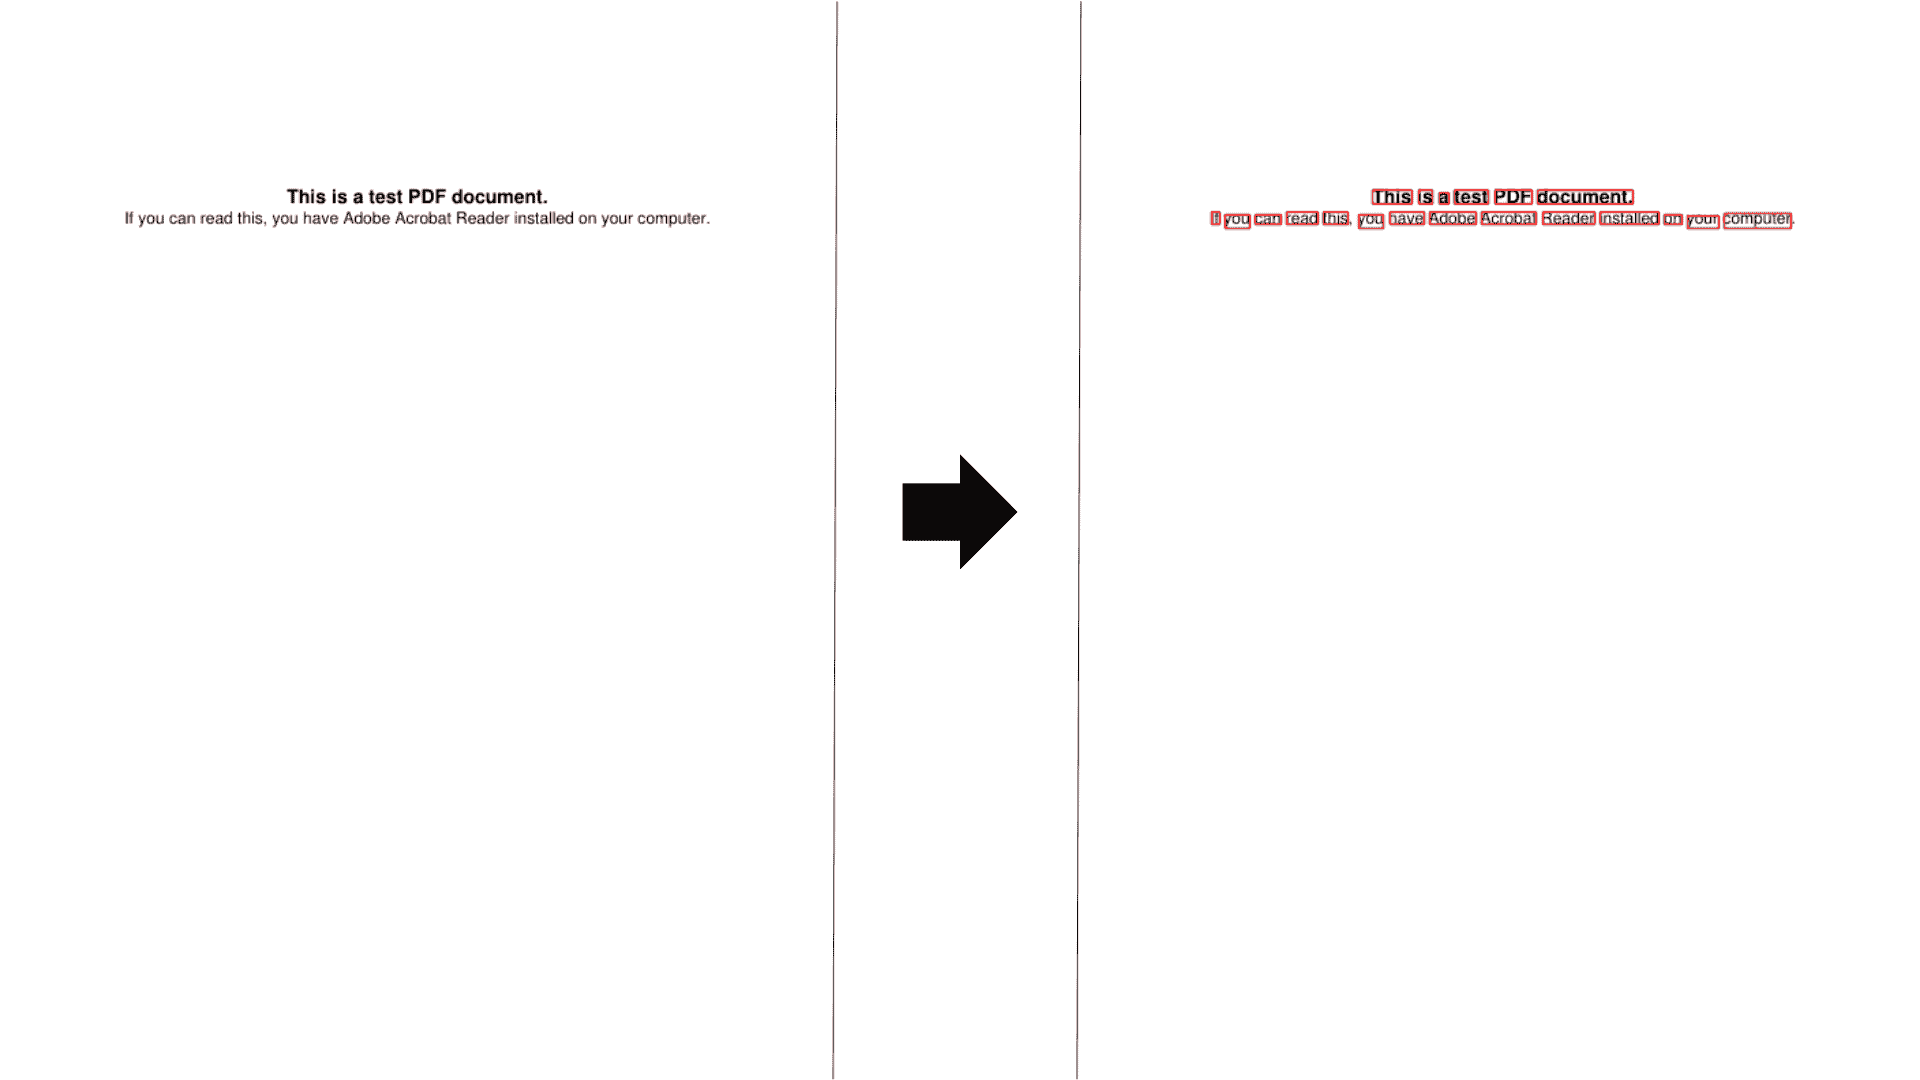
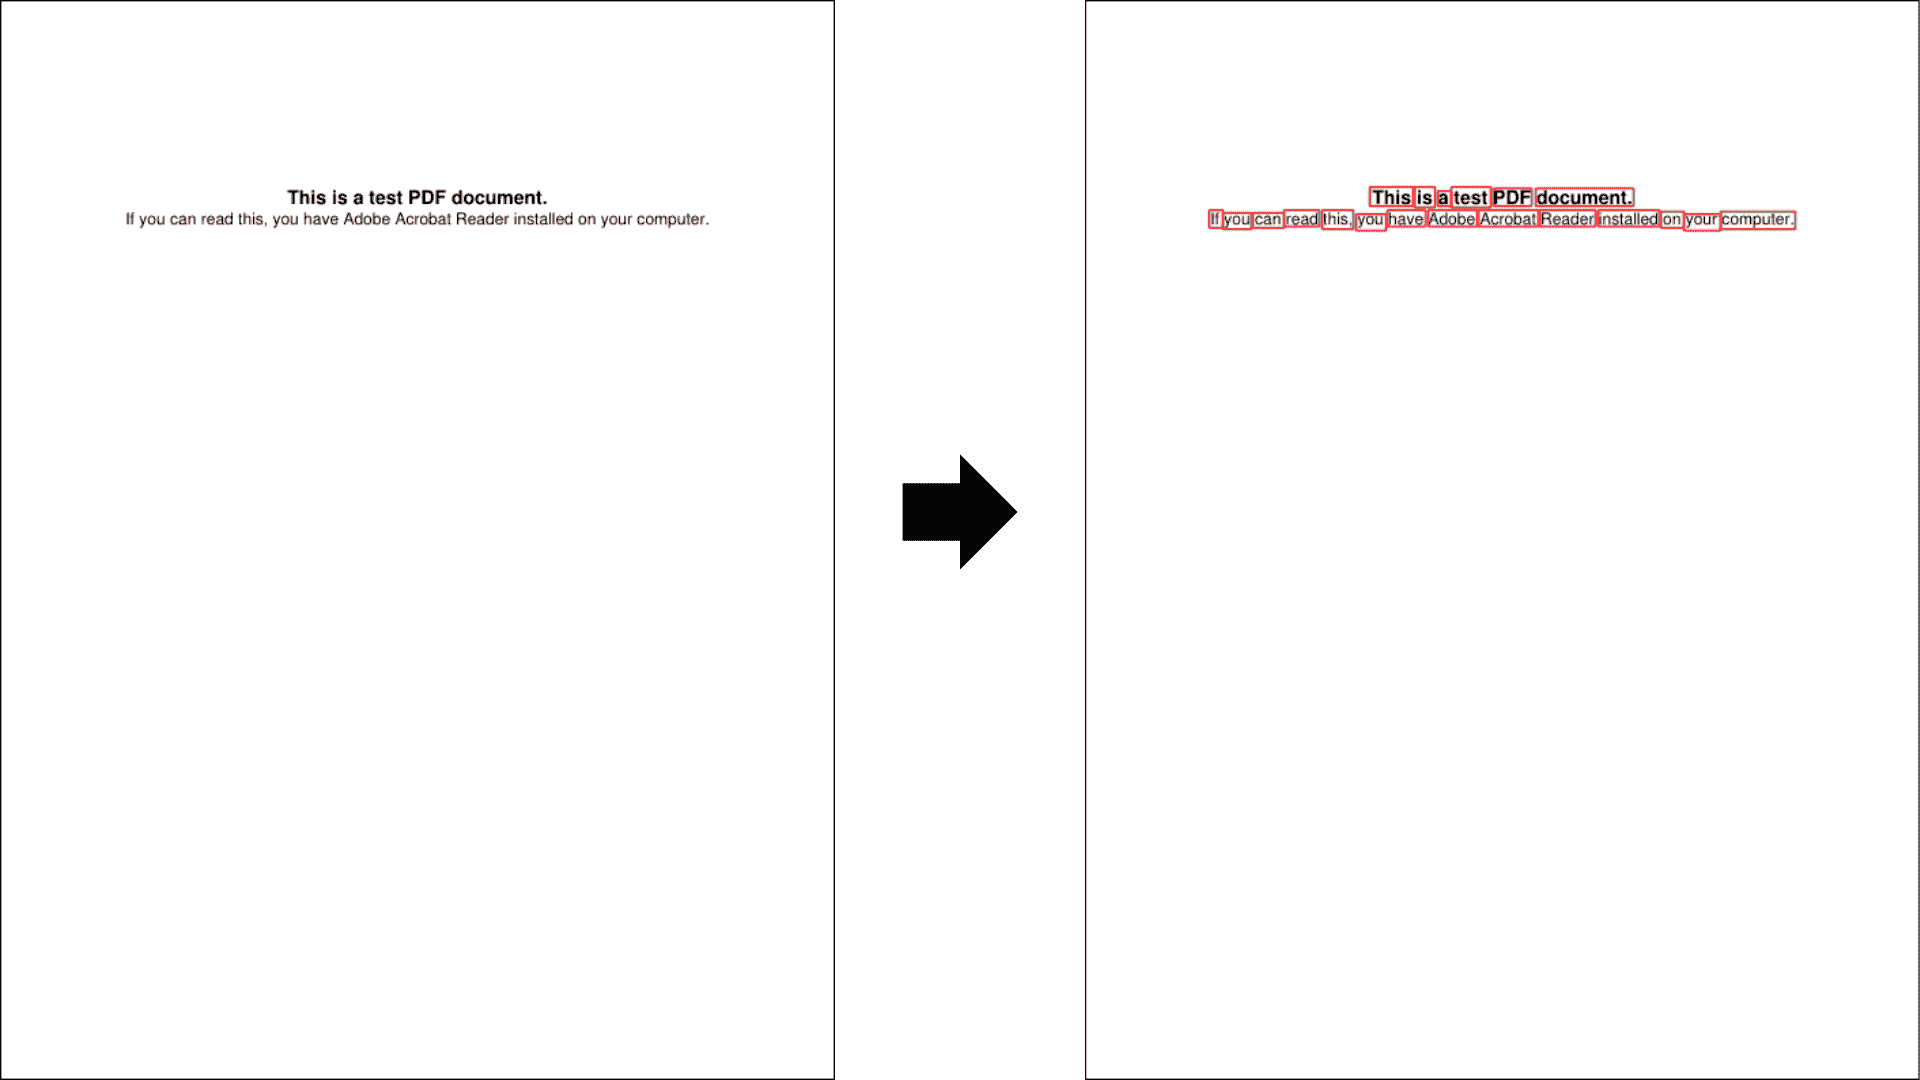
docs: add example group words ocr + find closest words

diff --git a/otary/vision/ocr/ocr_multi_output.py b/otary/vision/ocr/ocr_multi_output.py
@@ -138,16 +138,15 @@ class OcrMultiOutput:
     def from_doctr(
         cls,
         doctr_output: dict,
-        assume_straight_pages: bool = False,
+        force_aabb: bool = False,
         is_bbox_cast_int_enabled: bool = True,
     ) -> OcrMultiOutput:
         """Transform a single page DocTR output into a OcrMultiOutput object.
 
         Args:
             doctr_output (dict): the output of the DocTR OCR pipeline.
-            assume_straight_pages (bool): whether to assume that the pages are straight
-                or not. This has an impact on the geometry bounding boxes coordinates
-                output representation.
+            force_aabb (bool): whether to force the use of axis-aligned bounding boxes
+                (AABB). Defaults to False.
             is_bbox_cast_int_enabled (bool, optional): whether to cast all bounding
                 boxes coordinates into integers.
 
@@ -168,14 +167,14 @@ class OcrMultiOutput:
                 for word in line["words"]:
                     try:
                         bbox_arr = np.array(word["geometry"], dtype=float) * arr_dim
-                        if not assume_straight_pages:
+                        if not force_aabb:
                             bbox = geo.Rectangle(
                                 points=bbox_arr,
                                 regularity_rtol=0.1,
                                 is_cast_int=is_bbox_cast_int_enabled,
                             )
                         else:
-                            bbox = geo.Rectangle.from_topleft_bottomright(
+                            bbox = geo.AxisAlignedRectangle.from_topleft_bottomright(
                                 topleft=bbox_arr[0],
                                 bottomright=bbox_arr[1],
                                 is_cast_int=is_bbox_cast_int_enabled,
@@ -199,7 +198,7 @@ class OcrMultiOutput:
         image_dim: tuple[int, int],
         page_nb_to_analyze: int = 0,
         level: str = "word",
-        assume_straight_pages: bool = False,
+        force_aabb: bool = False,
     ) -> OcrMultiOutput:
         """Instantiate OcrMultiOutput object from OCR Azure Intelligence.
 
@@ -209,8 +208,8 @@ class OcrMultiOutput:
             page_nb_to_analyze (int, optional): page number to analyze. Defaults to 0.
             level (str, optional): level of granularity for OCR results.
                 Defaults to "word".
-            assume_straight_pages (bool, optional): whether to assume straight pages.
-                Defaults to False.
+            force_aabb (bool, optional): whether to force the use of axis-aligned
+                bounding boxes (AABB). Defaults to False.
 
         Returns:
             OcrMultiOutput: OcrMultiOutput object
@@ -243,7 +242,7 @@ class OcrMultiOutput:
                 )
                 bbox = geo.Polygon(polygon_in_pixels)
 
-                if assume_straight_pages:
+                if force_aabb:
                     bbox = bbox.aabb()
                 else:
                     bbox = bbox.obb()
@@ -271,7 +270,7 @@ class OcrMultiOutput:
                 )
                 bbox = geo.Polygon(polygon_in_pixels)
 
-                if assume_straight_pages:
+                if force_aabb:
                     bbox = bbox.aabb()
                 else:
                     bbox = bbox.obb()
@@ -301,7 +300,7 @@ class OcrMultiOutput:
                 )
                 bbox = geo.Polygon(polygon_in_pixels)
 
-                if assume_straight_pages:
+                if force_aabb:
                     bbox = bbox.aabb()
                 else:
                     bbox = bbox.obb()

diff --git a/tests/unit/vision/ocr/test_ocr_multi_output.py b/tests/unit/vision/ocr/test_ocr_multi_output.py
@@ -184,9 +184,7 @@ class TestOCRMOFromDoctr:
     def test_from_doctr_with_valid_input_assume_straight_page_true(
         self, doctr_output_straight_page: dict
     ):
-        result = OcrMultiOutput.from_doctr(
-            doctr_output_straight_page, assume_straight_pages=True
-        )
+        result = OcrMultiOutput.from_doctr(doctr_output_straight_page, force_aabb=True)
 
         # Assertions
         assert len(result.ocrsos) == 2
@@ -209,13 +207,13 @@ class TestOCRMOFromDoctr:
         doctr_output = {"pages": [{"dimensions": [1000, 2000], "blocks": []}]}
 
         # Call the method
-        result = OcrMultiOutput.from_doctr(doctr_output, assume_straight_pages=True)
+        result = OcrMultiOutput.from_doctr(doctr_output, force_aabb=True)
 
         # Assertions
         assert len(result.ocrsos) == 0
 
     def test_from_doctr_normal(self, doctr_output: dict):
-        result = OcrMultiOutput.from_doctr(doctr_output, assume_straight_pages=False)
+        result = OcrMultiOutput.from_doctr(doctr_output, force_aabb=False)
 
         # Assertions
         assert len(result.ocrsos) == 2
@@ -245,7 +243,7 @@ class TestOCRMOFromAzure:
             image_dim=image_dim,
             page_nb_to_analyze=0,
             level="word",
-            assume_straight_pages=False,
+            force_aabb=False,
         )
 
         assert len(result.ocrsos) > 0
@@ -261,7 +259,7 @@ class TestOCRMOFromAzure:
             image_dim=image_dim,
             page_nb_to_analyze=0,
             level="word",
-            assume_straight_pages=True,
+            force_aabb=True,
         )
 
         assert len(result.ocrsos) > 0
@@ -277,7 +275,7 @@ class TestOCRMOFromAzure:
             image_dim=image_dim,
             page_nb_to_analyze=0,
             level="line",
-            assume_straight_pages=False,
+            force_aabb=False,
         )
 
         assert len(result.ocrsos) > 0
@@ -293,7 +291,7 @@ class TestOCRMOFromAzure:
             image_dim=image_dim,
             page_nb_to_analyze=0,
             level="line",
-            assume_straight_pages=True,
+            force_aabb=True,
         )
 
         assert len(result.ocrsos) > 0
@@ -309,7 +307,7 @@ class TestOCRMOFromAzure:
             image_dim=image_dim,
             page_nb_to_analyze=0,
             level="paragraph",
-            assume_straight_pages=False,
+            force_aabb=False,
         )
 
         assert len(result.ocrsos) > 0
@@ -325,7 +323,7 @@ class TestOCRMOFromAzure:
             image_dim=image_dim,
             page_nb_to_analyze=0,
             level="paragraph",
-            assume_straight_pages=True,
+            force_aabb=True,
         )
 
         assert len(result.ocrsos) > 0
@@ -342,7 +340,7 @@ class TestOCRMOFromAzure:
                 image_dim=image_dim,
                 page_nb_to_analyze=0,
                 level="invalid_level",
-                assume_straight_pages=True,
+                force_aabb=True,
             )
 
 

diff --git a/docs/learn/ocr.md b/docs/learn/ocr.md
@@ -36,8 +36,10 @@ object easily this way:
 ```python
 import otary as ot
 
+your_ocr_outputs = ... # from your favorite OCR engine
+
 ocrsos = []
-for ocr_output in you_ocr_outputs:
+for ocr_output in your_ocr_outputs:
     ocrso = ot.OcrSingleOutput(
         bbox=ot.Rectangle(ocr_output["bounding_box"]),
         text=ocr_output["text"],
@@ -51,14 +53,20 @@ ocrmo = ot.OcrMultiOutput(ocrsos)
 
 ## Displaying
 
-### Example to display OCR outputs
+### Display OCR outputs
+
+Here is a very quick example using Otary and Pytesseract as the OCR engine:
 
 ```python
 import otary as ot
+import pytesseract
 
 im = ot.Image.from_pdf('../tests/data/vision/example1/test.pdf')
 
-ocr_outputs = pytesseract.image_to_data(im.as_pil(), output_type=pytesseract.Output.DICT)
+ocr_outputs = pytesseract.image_to_data(
+    im.as_pil(),
+    output_type=pytesseract.Output.DICT
+)
 ocrmo = ot.OcrMultiOutput.from_pytesseract(ocr_outputs)
 
 im.copy().draw_ocr_outputs(
@@ -71,7 +79,7 @@ Here is what the following code would display:
 
 ![ocr](../img/learn/example-otary-ocr-sample-pdf.png)
 
-### OCR with rotated Bounding Boxes
+### Rotated Bounding Boxes
 
 If you have OCR outputs with rotated bounding boxes, you can also manipulating them
 with Otary.
@@ -87,7 +95,7 @@ ocr_outputs = ... # from Azure Document Intelligence OCR engine for example
 img = ot.Image.from_file(FILEPATH)
 
 ocrmo = ot.OcrMultiOutput.from_azure_document_intelligence(
-    azure_output=ocr_outputs, 
+    azure_output=ocr_outputs,
     image_dim=(img.width, img.height),
     page_nb_to_analyze=0,
     level="word",
@@ -102,14 +110,14 @@ im = img.copy().draw_ocr_outputs(
 
 ![ocr](../img/learn/example-otary-ocr-obb.png)
 
-### OCR into Axis-Aligned Bounding Boxes
+### Axis-Aligned Bounding Boxes
 
 You can force the usage of Axis-Aligned Bounding Boxes (AABB) instead of rotated Bounding Boxes (OBB) by setting `assume_straight_pages=True`
 
 ```python
 
 ocrmo = ot.OcrMultiOutput.from_azure_document_intelligence(
-    azure_output=ocr_outputs, 
+    azure_output=ocr_outputs,
     image_dim=(img.width, img.height),
     page_nb_to_analyze=0,
     level="word",
@@ -130,7 +138,7 @@ im = img.copy().draw_ocr_outputs(
 
 Using Otary, you can easily extract key information from your OCR outputs.
 
-Given the following image: 
+Given the following image:
 
 ![ocr](../img/learn/example-otary-ocr-image.png)
 
@@ -149,7 +157,8 @@ ocrmo = OcrMultiOutput.from_aws_textract(ocr_output)
 value = ot.HeuristicKeyInformationExtractor.extract(
     ocr_outputs=ocrmo,
     key="MUNICIPIO",
-    closest_word_dist_thresh=im.dist_pct(pct=0.1) # 10% of image diagonal
+    closest_word_dist_thresh=im.dist_pct(pct=0.05), # 5% of image diagonal distance
+    levenshtein_threshold=0.85
 )
 
 print(value.text) # BESTCITYTOWN
@@ -157,8 +166,77 @@ print(value.text) # BESTCITYTOWN
 
 ### Group Words
 
-### Find words in a given spatial region
+Modern OCR engines now have layout capabilities. They contain information about
+pages, paragraphs, lines, words and more.
 
-### Find closest word to other
+However, some OCR engines do not provide this information. In those cases, Otary
+can help. You can reconstruct lines for example using the following code:
+
+```python
+import otary as ot
+
+im = ot.Image.from_pdf('../tests/data/vision/example1/test.pdf')
+
+ocr_outputs = pytesseract.image_to_data(
+    im.as_pil(),
+    output_type=pytesseract.Output.DICT
+)
+ocrmo = ot.OcrMultiOutput.from_pytesseract(ocr_outputs)
+
+ocrmo_groups, _ = ocrmo.group_words(
+    min_word_dist=im.dist_pct(pct=0.05)
+)
+
+im.copy().draw_ocr_outputs(
+    ocr_outputs=ocrmo_groups.ocrsos,
+    render=ot.OcrSingleOutputRender(thickness=1, default_color="red")
+).show()
+```
+
+![ocr](../img/learn/example-otary-ocr-groupwords.png)
+
+### Find closest word to another
+
+Using Otary, you can find the closest word to the right of any word.
+
+Given the following document:
+
+![ocr](../img/learn/example-otary-ocr-sample-pdf-base.png)
+
+You could compute:
+
+```python
+
+import otary as ot
+
+im = ot.Image.from_pdf('../tests/data/vision/example1/test.pdf')
+
+ocr_outputs = ... # from your favorite OCR engine
+ocrmos = ...
+
+print(ocrmo.ocrsos[4].text) # PDF
+
+closest_word = ocrmo.find_closest_word(
+    word=ocrmo.ocrsos[4],
+    direction="right",
+    dist_thresh=im.dist_pct(pct=0.05) # 5% of image diagonal distance
+)
+
+print(closest_word.text) # document.
+```
+
+You can do the same to the left:
+
+```python
+closest_word = ocrmo.find_closest_word(
+    word=ocrmo.ocrsos[4],
+    direction="left",
+    dist_thresh=im.dist_pct(pct=0.05)
+)
+
+print(closest_word.text) # test
+```
+
+### Find words in a given spatial region
 
 ### Drop duplicates

diff --git a/docs/learn/introduction.md b/docs/learn/introduction.md
@@ -1,6 +1,6 @@
 # General example
 
-Otary unifies geometry and image processing in a single API. 
+Otary unifies geometry and image processing in a single API.
 
 You can construct geometric entities, render them onto an image, and apply image-processing transformations, all within the same workflow, without switching between libraries.
 
@@ -28,7 +28,7 @@ im.copy().draw_polygons(
 
 ## Advanced Image Manipulation
 
-Suppose you what to manipulate the image in a given part of it. Here is 
+Suppose you what to manipulate the image in a given part of it. Here is
 an example of what you could do.
 
 ```python

diff --git a/docs/learn/linear-entities.md b/docs/learn/linear-entities.md
@@ -138,7 +138,7 @@ for linear_entity in dle:
         )
     else:
         raise RuntimeError(f"Unknown type {type(linear_entity)}")
-        
+
 score = im.score_contains_v2(im_other) # compare two images
 
 print(score) # 0.97
